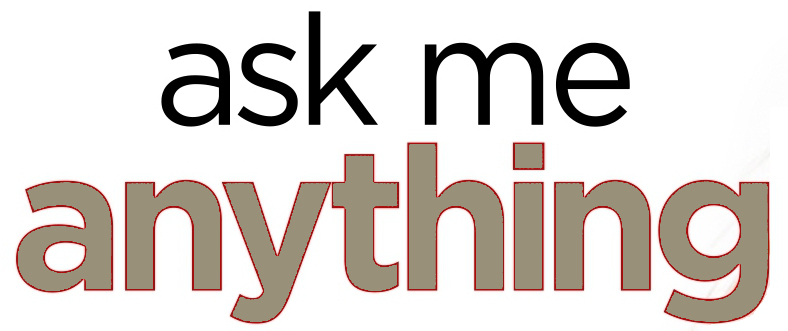
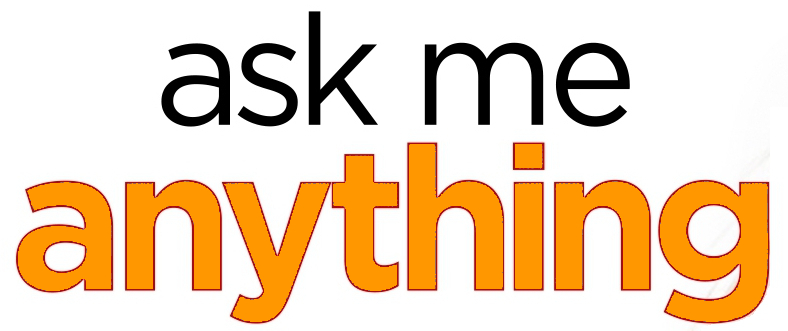
font fix

Changed region(s): [[0.0, 0.423, 0.9746, 0.997], [0.6396, 0.423, 0.7005, 0.5136]]

diff --git a/src/app/views/home/home.component.html b/src/app/views/home/home.component.html
@@ -2,12 +2,8 @@
   <mat-card>
     <img class="project-image" mat-card-image src="/assets/images/Ask_Me_Anything.jpg" alt="Project image">
     <mat-card-content>
-      <p>anything (Anything Project)</p>
-      <p>Id: http://rdfh.ch/projects/anything </p>
-      <p>Ontologies:</p>
-      <ul>
-        <li>http://www.knora.org/ontology/anything</li>
-      </ul>
+      <h1>Anything Project (font Lane Narrow)</h1>
+      <p>Id: http://rdfh.ch/projects/anything (font Arial)</p>
     </mat-card-content>
   </mat-card>
 </div>

diff --git a/src/theme.scss b/src/theme.scss
@@ -70,9 +70,7 @@ $theme: mat-light-theme($primary, $accent, $warn);
 }
 
 $custom-typography: mat-typography-config(
-  $font-family: 'Arial, sans-serif',
-  $headline: mat-typography-level(32px, 48px, 700),
-  $body-1: mat-typography-level(16px, 24px, 500)
+  $font-family: 'Arial, sans-serif'
 );
 
 
@@ -81,4 +79,8 @@ $custom-typography: mat-typography-config(
 
 body {
   background-image: url('/assets/images/bg-main.gif');
+}
+
+h1 {
+  font-family: 'Lane Narrow, sans-serif'
 }

diff --git a/src/app/views/home/home.component.css b/src/app/views/home/home.component.css
@@ -4,4 +4,7 @@
 
 .project-image {
   width: 300px;
+  display: block;
+  margin-left: auto;
+  margin-right: auto;
 }
